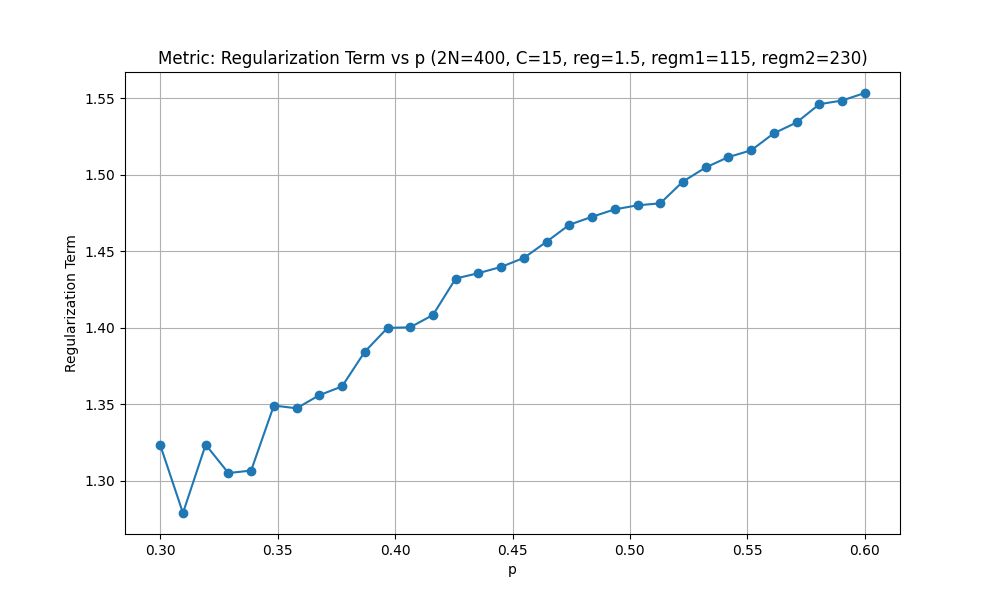
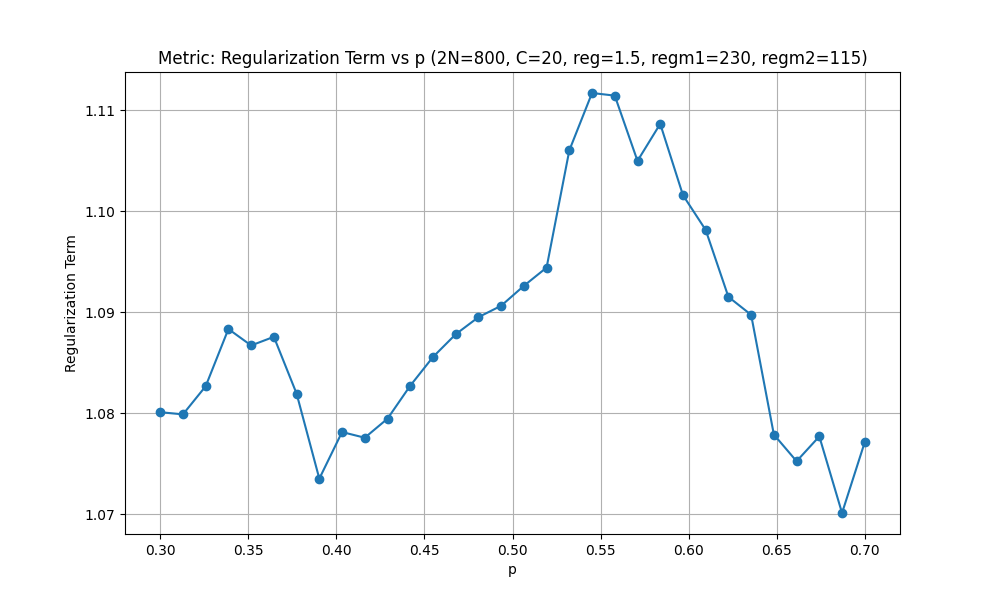
naprawiony p_curve dla lbfgsb

diff --git a/SimpleDecent/p_curves.py b/SimpleDecent/p_curves.py
@@ -5,8 +5,8 @@ from tqdm import tqdm
 from concurrent.futures import ProcessPoolExecutor, as_completed
 import multiprocessing
 
-METHOD = "mirror_descent"
-# METHOD = "lbfgsb"
+# METHOD = "mirror_descent"
+METHOD = "lbfgsb"
 
 def construct_data(N, C, p):
     spectra, mix = load_data()
@@ -35,26 +35,31 @@ def construct_data(N, C, p):
 regm1 = 230
 regm2 = 115
 reg = 1.5
-N = 1000
+N = 400
 C = 20
 max_iter = 1000
-p_values = np.linspace(0.3, 0.6, 32)
+p_values = np.linspace(0.3, 0.7, 32)
 
 # Construct warmstart
+print("Constructing warmstart...")
+
 a, b, c, M = construct_data(N, C, 0.5)
 _G0 = warmstart_sparse(a, b, C)
 sparse = UtilsSparse(a, b, c, _G0, M, reg, regm1, regm2)
+_G0, _ = sparse.mirror_descent_unbalanced(numItermax=max_iter)
+G0 = dia_matrix((_G0, sparse.offsets), shape=(sparse.n, sparse.m), dtype=np.float64)
 
-print("Constructing warmstart...")
 if METHOD == "lbfgsb":
     save_path = "p_curves_lbfgsb"
     print("Using LBFGSB method.")
+    # okazuje sie ze nasz warmstart slabo dziala dla lbfgsb wiec trzeba sie poluzyc tym od md
+    sparse = UtilsSparse(a, b, c, G0, M, reg, regm1, regm2)
     _G0, _ = sparse.lbfgsb_unbalanced(numItermax=max_iter)
+    G0 = dia_matrix((_G0, sparse.offsets), shape=(sparse.n, sparse.m), dtype=np.float64)
 else:
     save_path = "p_curves_md"
     print("Using Mirror Descent method.")
-    _G0, _ = sparse.mirror_descent_unbalanced(numItermax=max_iter)
-G0 = dia_matrix((_G0, sparse.offsets), shape=(sparse.n, sparse.m), dtype=np.float64)
+
 print("Warmstart constructed.")
 
 shape = (len(p_values),)

diff --git a/SimpleDecent/marginals.py b/SimpleDecent/marginals.py
@@ -38,18 +38,24 @@ C = 20
 max_iter = 1000
 
 # Data
+print("Constructing transport plan...")
+
 v1, v2, a, b, c, M, _G0 = construct_data(N, C)
 sparse = UtilsSparse(a, b, c, _G0, M, reg, regm1, regm2)
-print("Constructing transport plan...")
+_G0, _ = sparse.mirror_descent_unbalanced(numItermax=max_iter)
+G = dia_matrix((_G0, sparse.offsets), shape=(sparse.n, sparse.m), dtype=np.float64)
+
 if METHOD == "lbfgsb":
     save_path = "marginals_lbfgsb"
     print("Using LBFGSB method.")
+    # okazuje sie ze nasz warmstart slabo dziala dla lbfgsb wiec trzeba sie poluzyc tym od md
+    sparse = UtilsSparse(a, b, c, G, M, reg, regm1, regm2)
     _G0, _ = sparse.lbfgsb_unbalanced(numItermax=max_iter)
+    G = dia_matrix((_G0, sparse.offsets), shape=(sparse.n, sparse.m), dtype=np.float64)
 else:
     save_path = "marginals_md"
     print("Using Mirror Descent method.")
-    _G0, _ = sparse.mirror_descent_unbalanced(numItermax=max_iter)
-G = dia_matrix((_G0, sparse.offsets), shape=(sparse.n, sparse.m), dtype=np.float64)
+
 print("Transport plan constructed.")
 
 G1 = np.array(G.sum(axis=1)).flatten()  # G * 1
@@ -58,7 +64,7 @@ G2 = np.array(G.sum(axis=0)).flatten()  # 1^T * G
 assert len(a) == len(G1) == len(v1), "Length mismatch in a, G1, and v1"
 assert len(b) == len(G2) == len(v2), "Length mismatch in b, G2, and v2"
 
-print("Sum of G:", np.sum(G))
+# print("Sum of G:", np.sum(G))
 
 os.makedirs(f"plots/{save_path}", exist_ok=True)
 

diff --git a/SimpleDecent/test_utils.py b/SimpleDecent/test_utils.py
@@ -151,7 +151,7 @@ def warmstart_sparse(p1, p2, C):
     sum = np.sum(diagonals)
     diagonals /= sum
 
-    return dia_matrix((np.array(diagonals), offsets), shape=(n, n))
+    return dia_matrix((np.array(diagonals), offsets), shape=(n, n), dtype=np.float64)
 
 
 def flatten_multidiagonal(matrix_data, offsets):
@@ -455,7 +455,11 @@ class UtilsSparse:
             jac=True,
             bounds=Bounds(0, np.inf),
             tol=stopThr,
-            options={"ftol": 1e-12, "gtol": 1e-8, "maxiter": numItermax},
+            options={
+                # "ftol": 1e-12, 
+                # "gtol": 1e-8, 
+                "maxiter": numItermax
+            },
         )
 
         G = reconstruct_multidiagonal(res.x, self.G0_sparse.offsets, self.m)
@@ -465,6 +469,7 @@ class UtilsSparse:
             "cost": self.sparse_dot(G, self.offsets),
             "res": res,
         }
+        # print(res)
         return G, log
 
     def mirror_descent_unbalanced(self, numItermax=1000, step_size=0.1, stopThr=1e-9):
